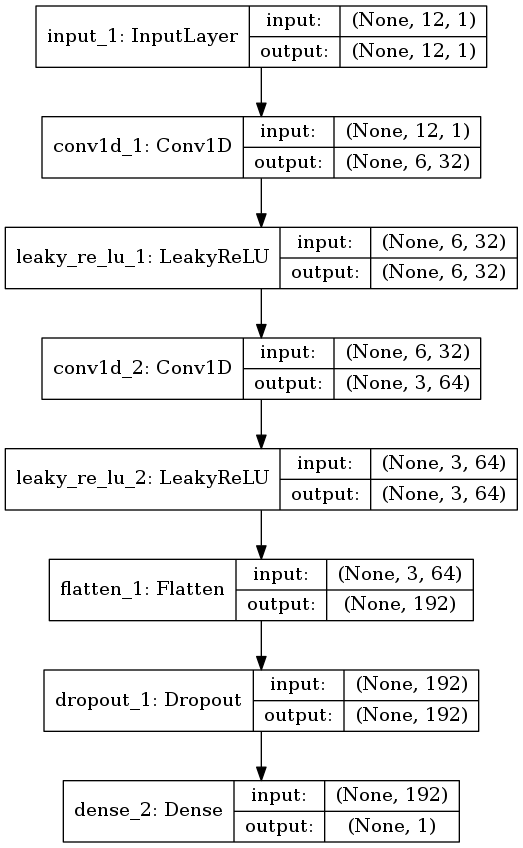
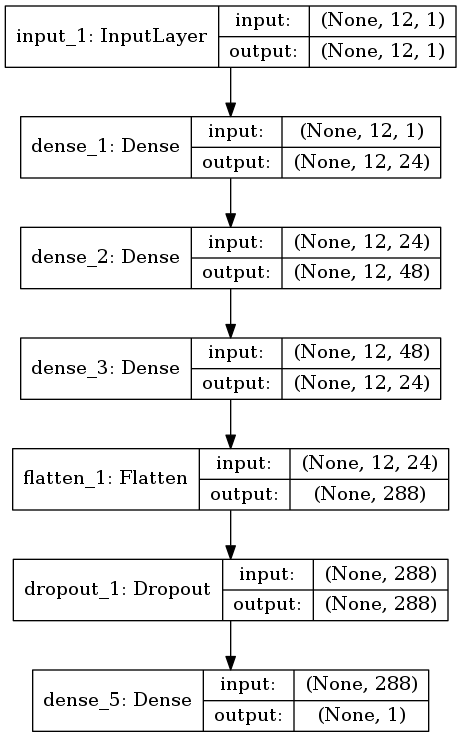
Tests with differents architectures and test sizes

Changed region(s): [[0.0, 0.0, 1.0, 0.9986], [0.0, 0.749, 0.0304, 0.8426]]

diff --git a/src/model_1_007.py b/src/model_1_007.py
@@ -17,45 +17,26 @@ def same_model(a,b):
     return any([array_equal(a1, a2) for a1, a2 in zip(a.get_weights(), b.get_weights())])
 
     # define the standalone supervised and unsupervised discriminator models
-def define_discriminator(in_shape=(12,1), n_classes=2):
-    # sample input
-    in_sample = Input(shape=in_shape)
-    # downsample
-    fe = Conv1D(32, (3), strides=(2), padding='same')(in_sample)
-    fe = LeakyReLU(alpha=0.2)(fe)
-    # downsample
-    fe = Conv1D(64, (3), strides=(2), padding='same')(fe)
-    fe = LeakyReLU(alpha=0.2)(fe)
-    # flatten feature maps
-    fe = Flatten()(fe)
-    # dropout
-    fe = Dropout(0.4)(fe)
-    # output layer nodes
-    c_fe = Dense(n_classes, activation='relu')(fe)
-    # supervised output
-    c_out_layer = Dense(1, activation='sigmoid')(fe)
-    # define and compile supervised discriminator model
-    c_model = Model(in_sample, c_out_layer)
-    c_model.compile(loss='binary_crossentropy', optimizer=Adam(lr=0.0002, beta_1=0.5), metrics=['accuracy'])
-    # unsupervised output
-    # d_out_layer = Lambda(custom_activation)(fe)
-    d_out_layer =  Dense(1, activation='sigmoid')(fe)
-    # define and compile unsupervised discriminator model
-    d_model = Model(in_sample, d_out_layer)
-    d_model.compile(loss='binary_crossentropy', optimizer=Adam(lr=0.0002, beta_1=0.5), metrics=['accuracy'])
-    return d_model, c_model
-
 # def define_discriminator(in_shape=(12,1), n_classes=2):
 #     # sample input
 #     in_sample = Input(shape=in_shape)
 #     # downsample
-#     fe = Dense(24, activation='relu')(in_sample)
-#     fe = Dense(48, activation='relu')(fe)
-#     fe = Dense(24, activation='relu')(fe)
+#     fe = Conv1D(32, (3), strides=(2), padding='same')(in_sample)
+#     fe = LeakyReLU(alpha=0.2)(fe)
+#     # downsample
+#     fe = Conv1D(64, (3), strides=(2), padding='same')(fe)
+#     fe = LeakyReLU(alpha=0.2)(fe)
+#     # downsample
+#     fe = Conv1D(128, (3), strides=(2), padding='same')(fe)
+#     fe = LeakyReLU(alpha=0.2)(fe)
+#     # downsample
+#     fe = Conv1D(64, (3), strides=(2), padding='same')(fe)
+#     fe = LeakyReLU(alpha=0.2)(fe)
 #     # flatten feature maps
 #     fe = Flatten()(fe)
 #     # dropout
-#     fe = Dropout(0.2)(fe)
+#     fe = Dropout(0.4)(fe)
+#     # output layer nodes
 #     c_fe = Dense(n_classes, activation='relu')(fe)
 #     # supervised output
 #     c_out_layer = Dense(1, activation='sigmoid')(fe)
@@ -69,6 +50,31 @@ def define_discriminator(in_shape=(12,1), n_classes=2):
 #     d_model = Model(in_sample, d_out_layer)
 #     d_model.compile(loss='binary_crossentropy', optimizer=Adam(lr=0.0002, beta_1=0.5), metrics=['accuracy'])
 #     return d_model, c_model
+
+def define_discriminator(in_shape=(12,1), n_classes=2):
+    # sample input
+    in_sample = Input(shape=in_shape)
+    # downsample
+    fe = Dense(24, activation='relu')(in_sample)
+    fe = Dense(48, activation='relu')(fe)
+    fe = Dense(24, activation='relu')(fe)
+    # flatten feature maps
+    fe = Flatten()(fe)
+    # dropout
+    fe = Dropout(0.2)(fe)
+    c_fe = Dense(n_classes, activation='relu')(fe)
+    # supervised output
+    c_out_layer = Dense(1, activation='sigmoid')(fe)
+    # define and compile supervised discriminator model
+    c_model = Model(in_sample, c_out_layer)
+    c_model.compile(loss='binary_crossentropy', optimizer=Adam(lr=0.0002, beta_1=0.5), metrics=['accuracy'])
+    # unsupervised output
+    # d_out_layer = Lambda(custom_activation)(fe)
+    d_out_layer =  Dense(1, activation='sigmoid')(fe)
+    # define and compile unsupervised discriminator model
+    d_model = Model(in_sample, d_out_layer)
+    d_model.compile(loss='binary_crossentropy', optimizer=Adam(lr=0.0002, beta_1=0.5), metrics=['accuracy'])
+    return d_model, c_model
 
 ##### plot the Discriminator
 d_model, c_model = define_discriminator()

diff --git a/src/gGAN.py b/src/gGAN.py
@@ -209,11 +209,8 @@ def train(g_model, d_model, c_model, gan_model, labeled_train_dataset, labeled_t
     log = ''
     for i in range(n_steps):
         # update supervised discriminator (c)
-        [Xsup_real, ysup_real] = select_supervised_samples(labeled_train_dataset, n_samples=20)
+        [Xsup_real, ysup_real] = select_supervised_samples(labeled_train_dataset, n_samples=10)
         c_loss, c_acc = c_model.train_on_batch(Xsup_real, ysup_real)
-        
-
-        
         # update unsupervised discriminator (d)
         [X_real, y_real] = select_unsupervised_samples(unlabeled_dataset, n_samples=half_batch)
         d_loss1 = d_model.train_on_batch(X_real, y_real)
